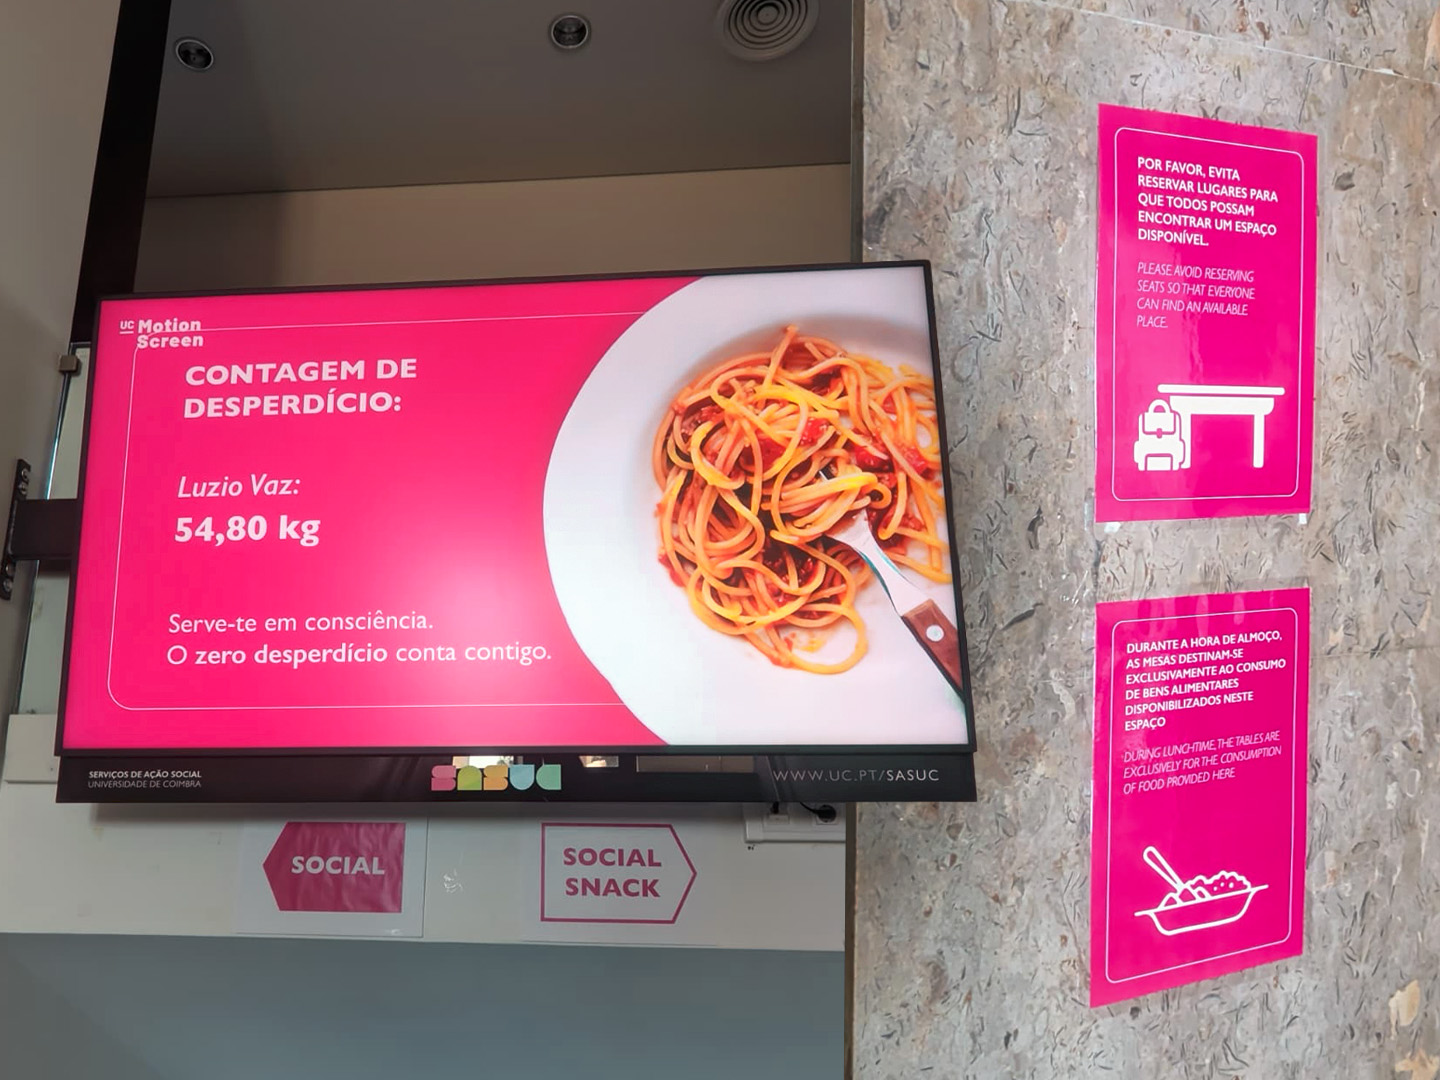
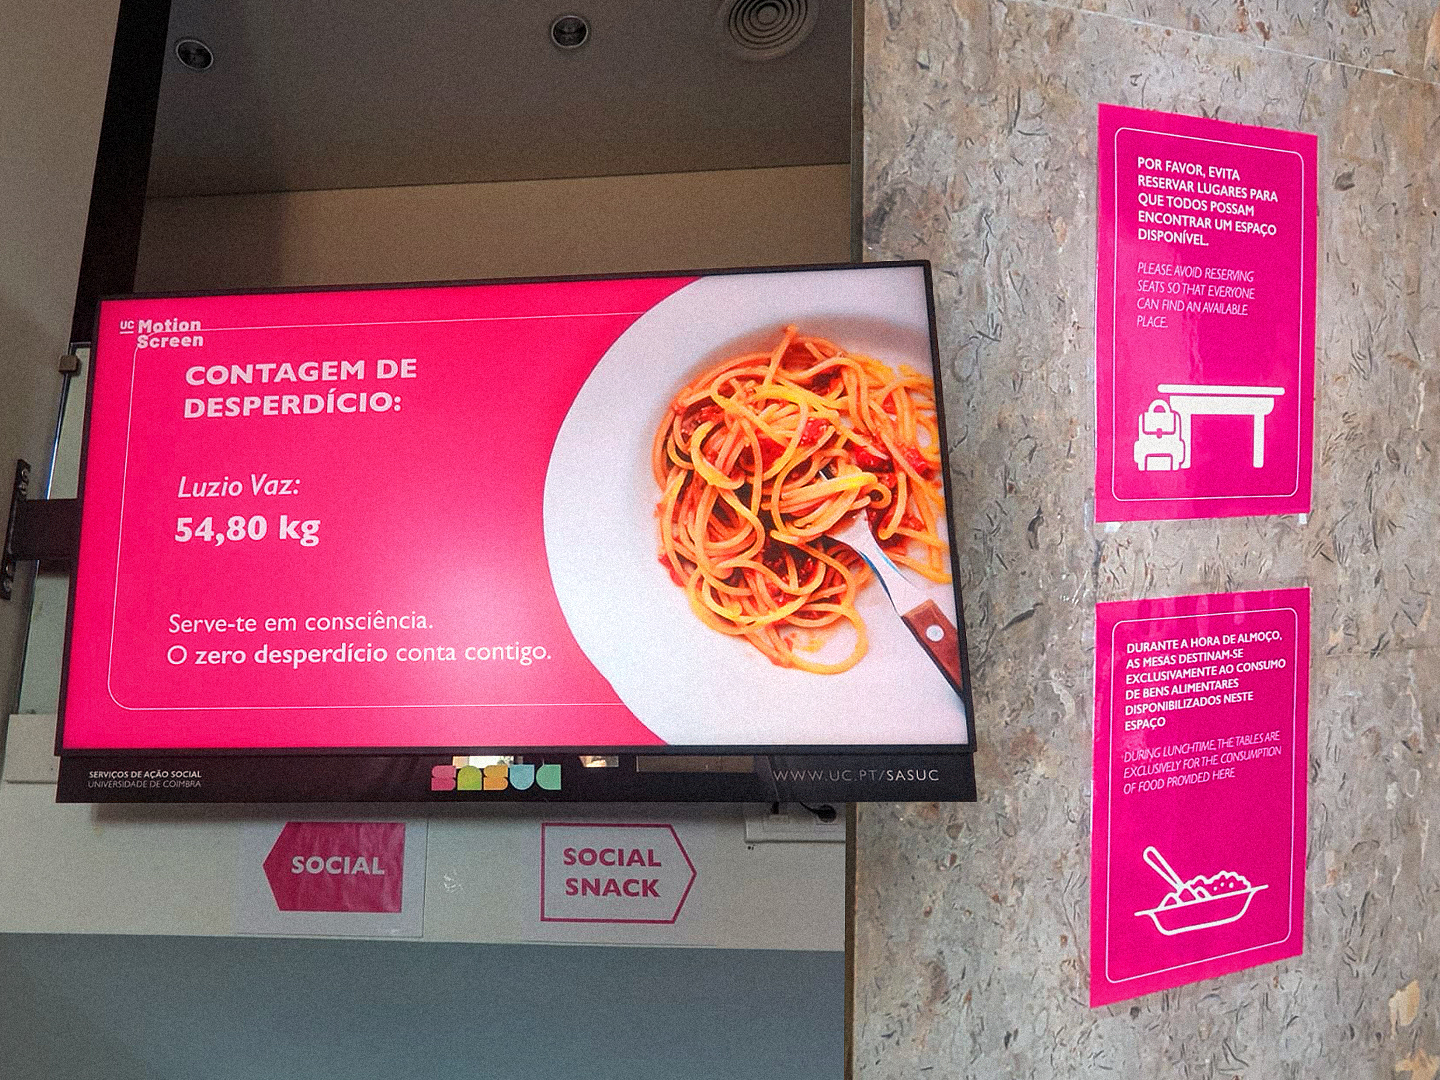
fotos susac

diff --git a/script.js b/script.js
@@ -22,7 +22,7 @@ const projectData = {
             description: "My time in the communications department of the <b>Social Services of the University of Coimbra</b> consisted of expanding the newly created visual identity by developing various updated materials for the University's physical and digital media. The work carried out included various <b>posters, notices, signage, publications for social media, menus, among many others</b> - for the benefit of different departments (food, scholarships, residences, etc)",
             role: 'Communication Designer',
             areas: 'Communication Design',
-            images: ['assets/design/sasuc/sasuc1.jpg', 'assets/design/sasuc/sasuc2.jpg'],
+            images: ['assets/design/sasuc/sasuc3.jpg', 'assets/design/sasuc/sasuc4.jpg', 'assets/design/sasuc/sasuc2.jpg', 'assets/design/sasuc/sasuc1.jpg'],
             video: '',
             linkText: 'WEBSITE',
             linkUrl: 'https://www.uc.pt/sasuc/'
